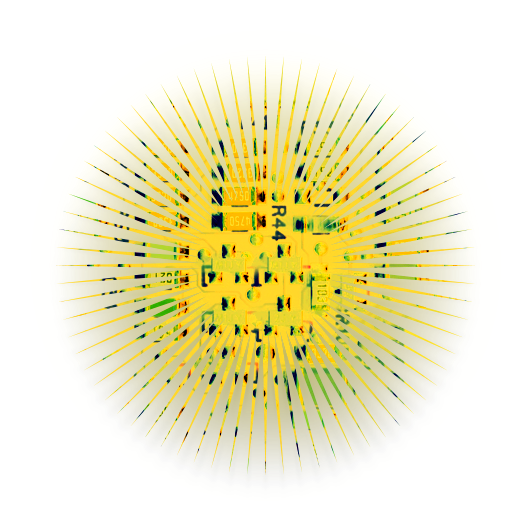
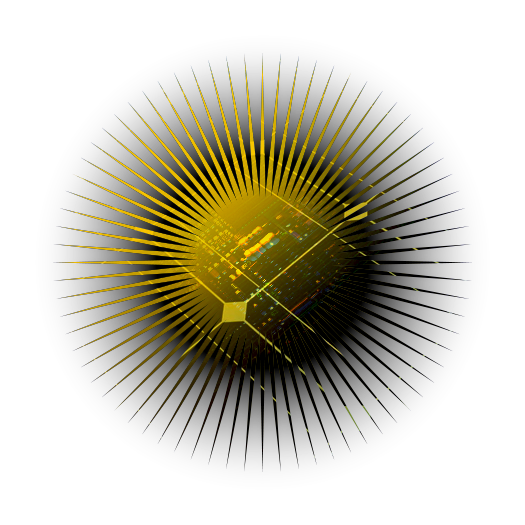
repair form, update sun image

diff --git a/client/src/components/Contact.js b/client/src/components/Contact.js
@@ -4,8 +4,10 @@ import TopBg from '../assets/images/us-gold-header-bg.jpg';
 import Footer from './partials/Footer';
 import SubmitForm from './partials/SubmitForm';
 import Fade from 'react-reveal/Fade';
-import USGoldToken from '../assets/images/usg-token.png';
-import StarSolarSymbol from '../assets/images/star-solar-symbol.png';
+// import USGoldToken from '../assets/images/usg-token.png';
+import StarSolarSymbol from '../assets/images/sun-3.png';
+
+// import StarSolarSymbol from '../assets/images/star-solar-symbol.png';
 import SolarPanelsBgWide2 from '../assets/images/isolarbrokers-background2.jpg';
 import {
   HeroHeader, HhInnerContainer, HhTextContainer,
@@ -59,14 +61,13 @@ class GetStarted extends Component {
           <Grid.Row centered columns>
             <Grid.Column width={2} />
             <Grid.Column width={12}>
+
               <iframe src="https://docs.google.com/forms/d/e/1FAIpQLSd5xMaO3ODuVcF4n9X_MU1BDCzUMoraQc294FYn0yjZI--9Dw/viewform?embedded=true" width="640" height="752" frameborder="0" marginheight="0" marginwidth="0">Loading…</iframe>
             </Grid.Column>
             <Grid.Column width={2} />
           </Grid.Row>
         </Grid>
         {/* <SubmitForm /> */}
-
-
         <Footer />
       </Container>
     );

diff --git a/client/src/components/OurPromise.js b/client/src/components/OurPromise.js
@@ -2,7 +2,7 @@ import React, { Component } from 'react';
 import { Header, Container, Grid, Icon } from 'semantic-ui-react';
 import TopBg from '../assets/images/us-gold-header-bg.jpg';
 // import WalkingLiberty from '../assets/images/walking-liberty-coin.png';
-import USGoldToken from '../assets/images/usg-token.png';
+// import USGoldToken from '../assets/images/usg-token.png';
 import StarSolarSymbol from '../assets/images/sun-3.png';
 
 import CubesFiveGold from '../assets/images/cubes-five-gold.png';
